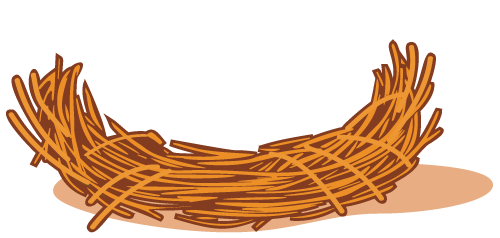
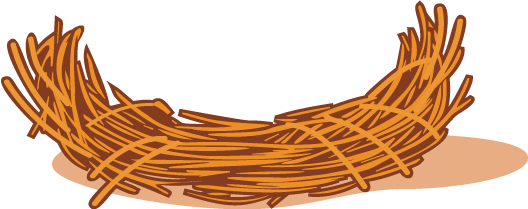
增加選擇蛋動畫

diff --git a/dev/sass/dinoGameEgg.scss b/dev/sass/dinoGameEgg.scss
@@ -19,35 +19,67 @@ body {
     position: relative;
 }
 
-.egg-1{
+.egg-1 {
     position: absolute;
     width: 20%;
     bottom: 15vh;
-    left: 22%;
+    left: 20%;
     z-index: 2;
+}
+
+.egg-1-move {
+    animation: egg-1 1.5s forwards;
+}
+
+.egg-1-move:hover {
+    animation: eggmove 0.5s 0.3s infinite alternate;
+    bottom: 38vh;
+    left: -20%;
+    width: 30%;
 }
 
 .egg-2 {
     position: absolute;
-    width: 27%;
-    bottom: 16vh;
-    left: 35%;
+    width: 26%;
+    bottom: 14vh;
+    left: 32%;
     z-index: 1;
+}
+
+.egg-2-move {
+    animation: egg-2 1.5s forwards;
+}
+
+.egg-2-move:hover {
+    animation: eggmove 0.5s 0.3s infinite alternate;
+    bottom: 38vh;
+    width: 28%;
 }
 
 .egg-3 {
     position: absolute;
     width: 21%;
     bottom: 15vh;
-    left: 52%;
+    left: 51%;
     z-index: 2;
+}
+
+.egg-3-move {
+    animation: egg-3 1.5s forwards;
+}
+
+.egg-3-move:hover {
+    animation: eggmove 0.5s 0.3s infinite alternate;
+    bottom: 38vh;
+    left: 85%;
+    width: 28%;
 }
 
 .nest {
     position: absolute;
-    width: 70%;
+    width: 80%;
     bottom: 5vh;
-    left: 15%;
+    left: 8%;
     z-index: 3;
 }
 
@@ -65,8 +97,8 @@ body {
     display: none;
 }
 
-.click{
-    cursor: pointer; 
+.click {
+    cursor: pointer;
 }
 
 //----animation bt
@@ -97,6 +129,65 @@ body {
     to {
         width: 50%;
         margin-left: 27%;
-        margin-top: 8%;
+        margin-top: 10%;
+    }
+}
+
+//----egg move
+
+@keyframes egg-1 {
+    from {
+        bottom: 15vh;
+        left: 0;
+        width: 20%;
+        transform: rotate(0deg);
+    }
+
+    to {
+        bottom: 38vh;
+        left: -20%;
+        width: 30%;
+        transform: rotate(10deg);
+    }
+}
+
+@keyframes egg-2 {
+    from {
+        bottom: 15vh;
+        width: 20%;
+        transform: rotate(0deg);
+    }
+
+    to {
+        bottom: 38vh;
+        width: 28%;
+        transform: rotate(-3deg);
+    }
+}
+
+@keyframes egg-3 {
+    from {
+        bottom: 15vh;
+        left: 51%;
+        width: 20%;
+        transform: rotate(0deg);
+    }
+
+    to {
+        bottom: 38vh;
+        left: 85%;
+        width: 28%;
+        transform: rotate(-10deg);
+    }
+}
+
+//----eggHover
+@keyframes eggmove {
+    from{
+        transform: rotate(0deg)
+    }
+    to {
+        transform: scale(1);
+        transform: rotate(10deg);
     }
 }

diff --git a/dev/js/dinoGameEgg.js b/dev/js/dinoGameEgg.js
@@ -2,7 +2,13 @@ let Bt = document.getElementById("Bt");
 Bt.addEventListener('click', function (e) {
     document.getElementById("Bt").classList.add("remove");
     document.getElementById("Egg").classList.add("egg-animation");
+
     document.getElementById("egg-1").classList.add("click");
+    document.getElementById("egg-1").classList.add("egg-1-move");
+
     document.getElementById("egg-2").classList.add("click");
+    document.getElementById("egg-2").classList.add("egg-2-move");
+
     document.getElementById("egg-3").classList.add("click");
+    document.getElementById("egg-3").classList.add("egg-3-move");
   })
